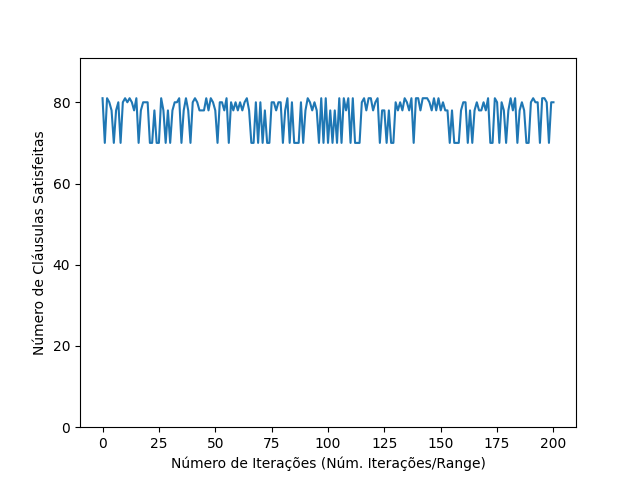
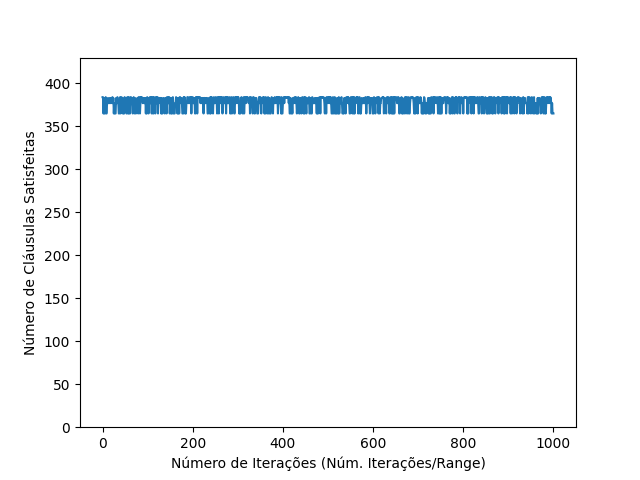
feat: saving results

diff --git a/sa.py b/sa.py
@@ -5,6 +5,7 @@ matrix = []
 num_rows = 0
 num_var = 0
 
+
 def read_cnf(file_name):
     with open(file_name, "r") as f:
         for i, line in enumerate(f):
@@ -18,11 +19,13 @@ def read_cnf(file_name):
                     matrix[i-8] = [int(v) for v in variables]
     return matrix, num_var, num_rows
 
+
 def initial_random_solution(num_var):
     initial_solution = []
     for i in range(num_var):
         initial_solution.append(random.choice([0, 1]))
     return initial_solution
+
 
 def map_solution(num_var, initial_solution):
     map = {}
@@ -30,6 +33,7 @@ def map_solution(num_var, initial_solution):
         var_name = 'v{}'.format(i+1)
         map[var_name] = initial_solution[i]
     return map
+
 
 def evaluate_solution(solution, var_dict, matrix):
     # Inicializa o número de cláusulas não satisfeitas
@@ -50,6 +54,7 @@ def evaluate_solution(solution, var_dict, matrix):
     # Retorna o número de cláusulas não satisfeitas
     return num_clausulas_nao_satisfeitas
 
+
 def generate_neighbor(solution, num_var):
     # Calcula o número de variáveis a serem invertidas
     num_var_invertidas = max(1, int(num_var / 4))
@@ -65,6 +70,7 @@ def generate_neighbor(solution, num_var):
         neighbor[indice] = 1 - neighbor[indice]
 
     return neighbor
+
 
 def random_search(initial_solution, max_iter, var_dict, matrix, num_rows, max_range):
     current_solution = initial_solution
@@ -102,8 +108,9 @@ def random_search(initial_solution, max_iter, var_dict, matrix, num_rows, max_ra
     plt.plot(range(0, len(iter)+1), scores)
     plt.xlabel('Número de Iterações (Núm. Iterações/Range)')
     plt.ylabel('Número de Cláusulas Satisfeitas')
-    #plt.show()
+    # plt.show()
     plt.savefig('rs.png')
+    plt.close()
 
     map_b_solution = map_solution(len(current_solution), best_solution)
     return map_b_solution, best_score
@@ -114,7 +121,7 @@ def simulated_annealing(initial_solution, var_dict, matrix, max_iter, t, num_var
     current_score = evaluate_solution(current_solution, var_dict, matrix)
     best_solution = current_solution.copy()
     best_score = num_rows - current_score
-    
+
     rangeScore = 0
     scores = [best_score]  # lista para armazenar os scores a cada iteração
     temp = []
@@ -143,19 +150,19 @@ def simulated_annealing(initial_solution, var_dict, matrix, max_iter, t, num_var
             best_score = current_score
 
         map_b_solution = map_solution(num_var, best_solution)
-        
+
         # Define um range de plot para melhorar a visualização do gráfico
         rangeScore = rangeScore + 1
         if (rangeScore == max_range):
             rangeScore = 0
-            scores.append(current_score)  
+            scores.append(current_score)
             temp.append(temperature)
             iter.append(it)
-            
+
             print(temperature)
 
     # Plotar o gráfico
-    #plt.ylim(0, num_rows)
+    # plt.ylim(0, num_rows)
     plt.plot(range(0, len(iter)+1), scores)
     plt.xlabel('Número de Iterações (Núm. Iterações/Range)')
     plt.ylabel('Número de Cláusulas Satisfeitas')
@@ -170,18 +177,36 @@ def simulated_annealing(initial_solution, var_dict, matrix, max_iter, t, num_var
 
     return map_b_solution, best_score
 
-matrix, num_var, num_rows = read_cnf("uf20-01.cnf")
+
+file_name = "uf100-01.cnf"
+matrix, num_var, num_rows = read_cnf(file_name)
 initial_solution = initial_random_solution(num_var)
 var_dict = map_solution(num_var, initial_solution)
 
 num_it = 100000
-max_range = 500
+max_range = 100
 
-result_sa = simulated_annealing(initial_solution, var_dict, matrix, num_it, 5, num_var, num_rows, max_range)
-result_rs = random_search(initial_solution, num_it, var_dict, matrix, num_rows, max_range)
+results_sa = []
+results_rs = []
 
-print("Simulated Annealing:")
-print(result_sa)
+for i in range(2):
+    result_sa = simulated_annealing(
+        initial_solution, var_dict, matrix, num_it, 4, num_var, num_rows, max_range)
+    results_sa.append(result_sa)
 
-print("Random Search:")
-print(result_rs)
+    result_rs = random_search(initial_solution, num_it,
+                              var_dict, matrix, num_rows, max_range)
+    results_rs.append(result_rs)
+
+
+log_filename = f"results/result_{file_name}.txt"
+
+# Abre o arquivo de log e escreve os resultados
+with open(log_filename, "w") as f:
+    f.write("Simulated Annealing: \n")
+    for result in results_sa:
+        f.write(f"{result}\n")
+
+    f.write("Random Search: \n")
+    for result in results_rs:
+        f.write(f"{result}\n")
